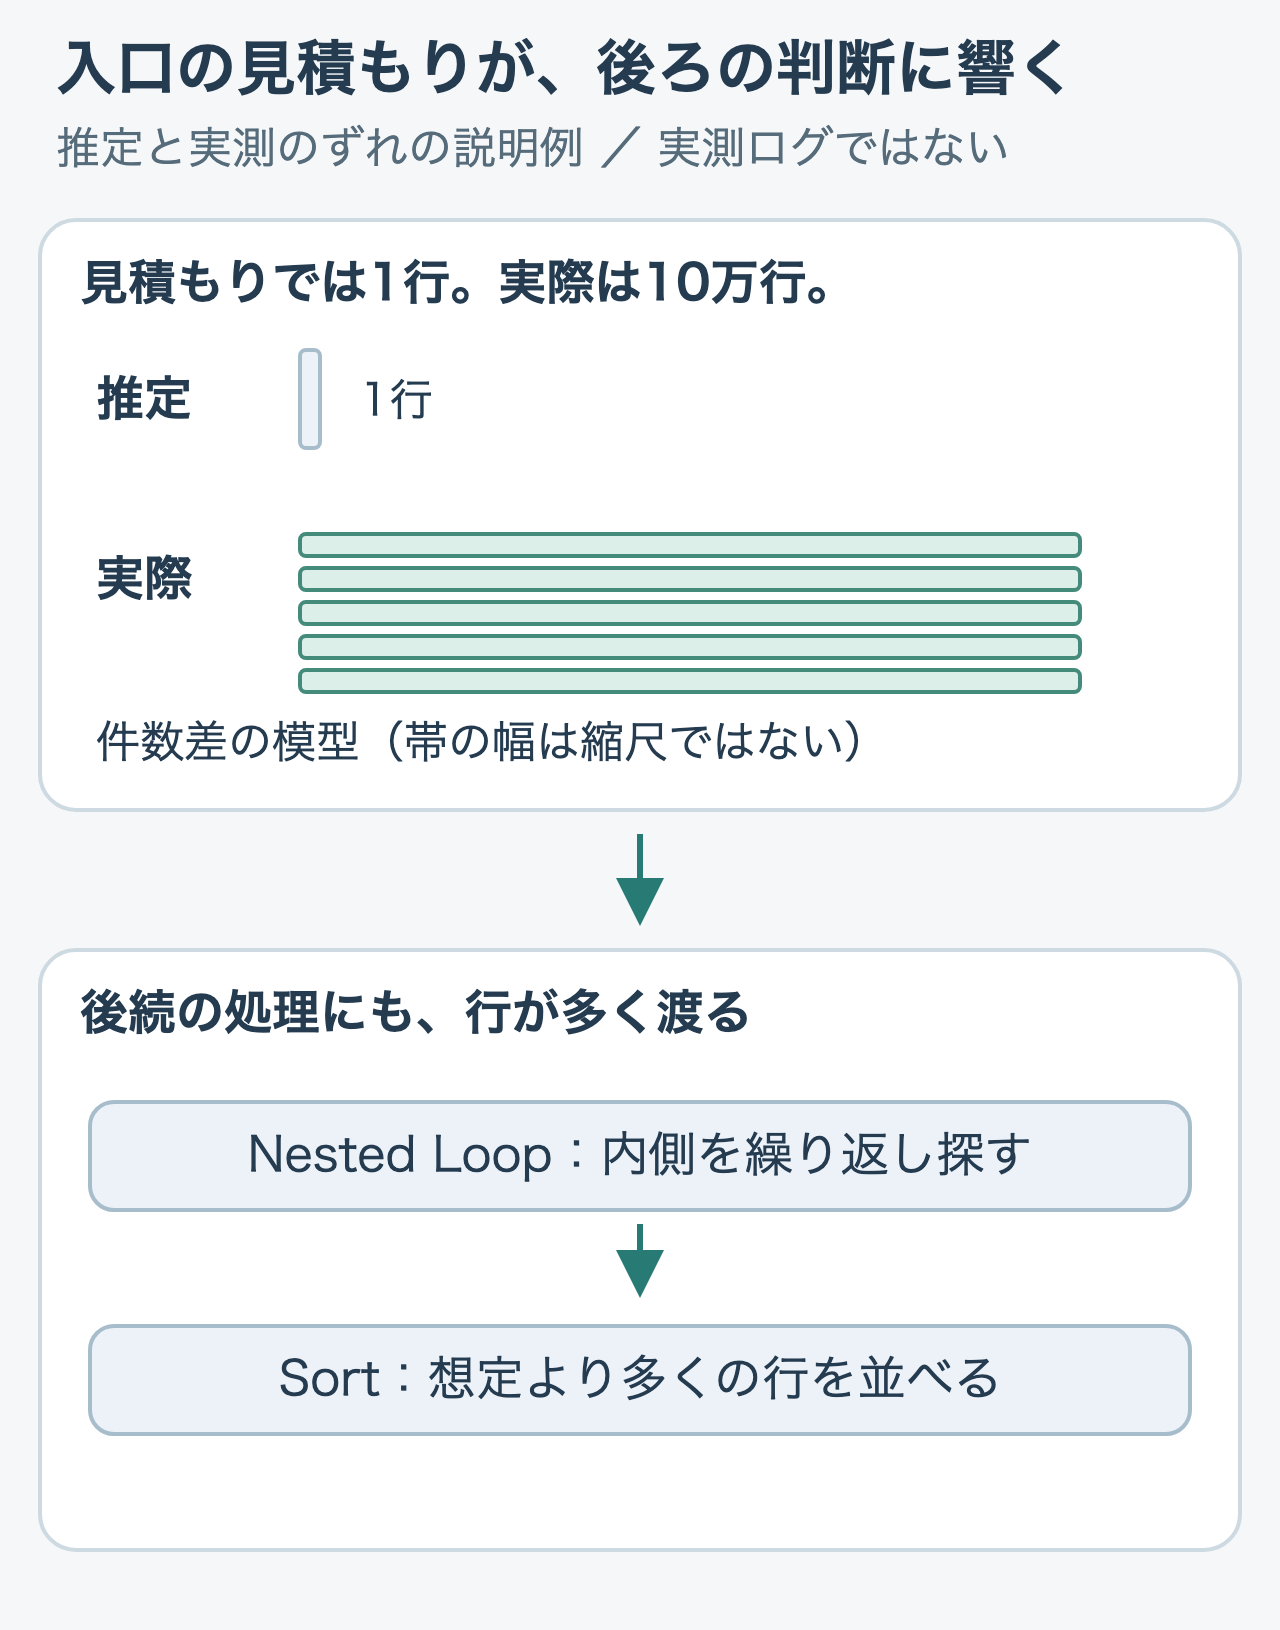
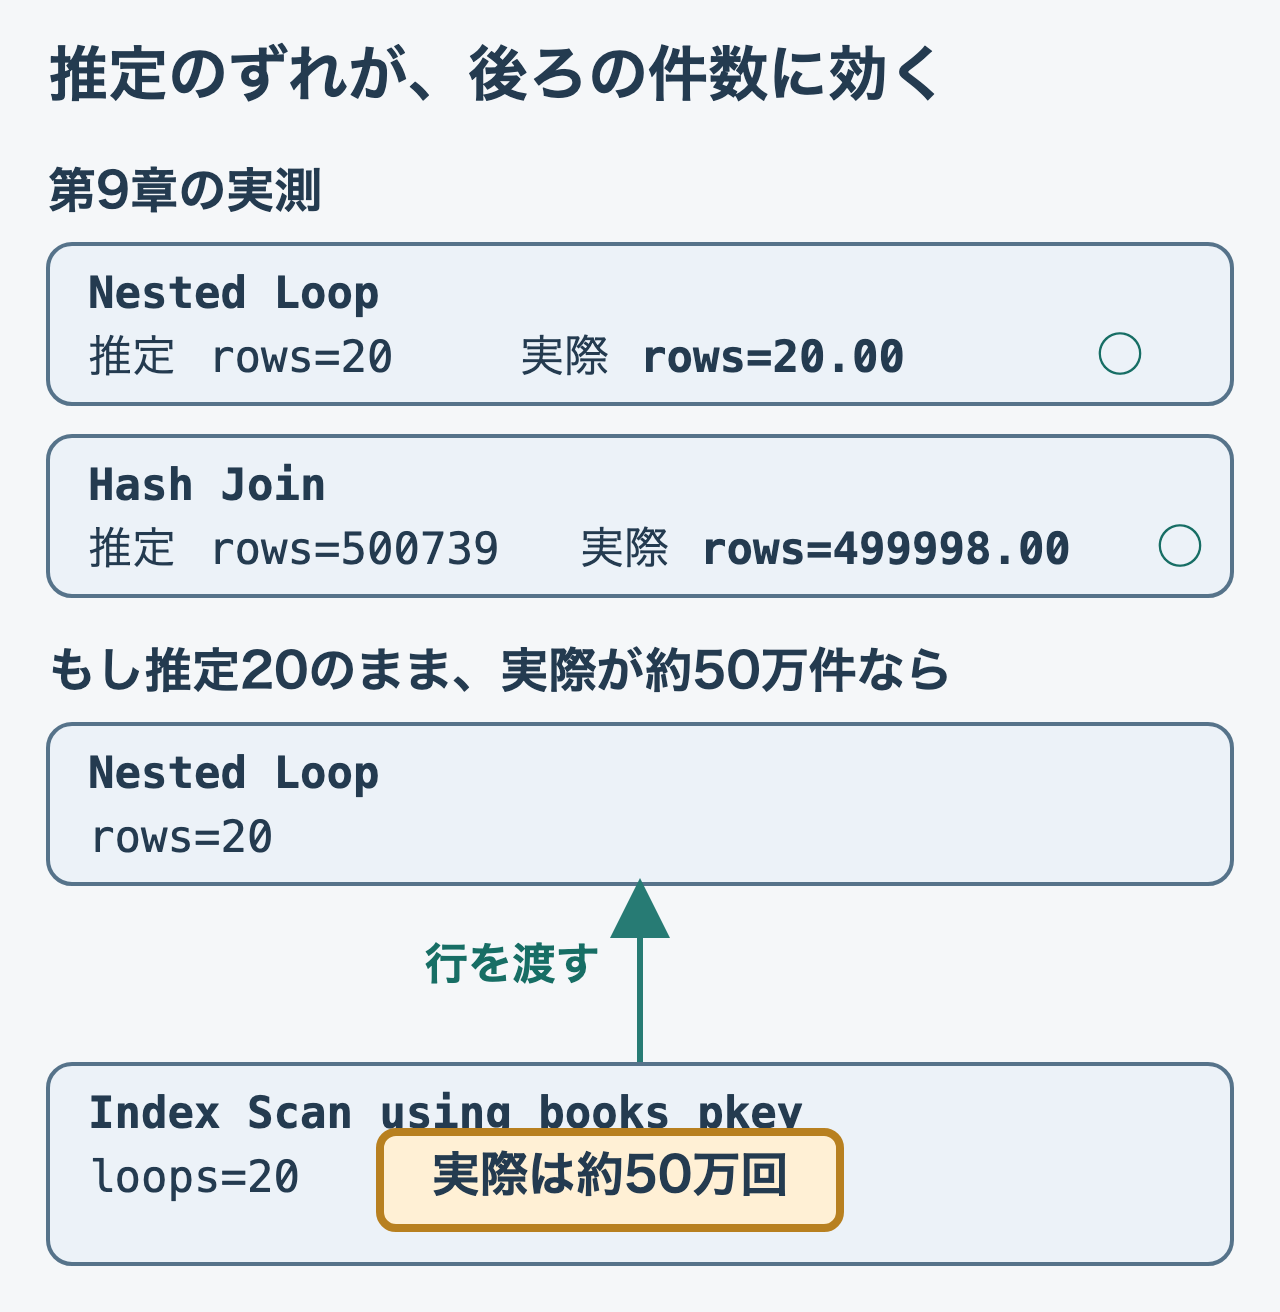
docs(query-journey): 第10章の推定伝播の図を、実測比較と模型の木に描き直す
上段に第9章のNested LoopとHash Joinの推定・実際・一致を並べ、下段は
推定20のままなら内側の実行が約50万回に増える例を、子が下・親が上・
行は下から上への木で描いた。旧版のSort行を外し、模型は札ではなく
上段・下段の見出しで実測と描き分けた。見出しの変更に合わせてREADME
の一覧とcatalog.json、代替テキスト・キャプションも合わせて直した。

Changed region(s): [[0.0312, 0.0, 0.9062, 0.5625], [0.0312, 0.5625, 0.9688, 0.9688], [0.9062, 0.1875, 0.9688, 0.5]]

diff --git a/books/postgresql-query-journey/10-planner-and-statistics.md b/books/postgresql-query-journey/10-planner-and-statistics.md
@@ -96,8 +96,8 @@ ROLLBACK;
 
 第9章の計画に当てはめてみます。Nested Loopの計画では、外側が`rows=20`と見積もられ、実際にも20件でした。もし推定が20件のままで、実際には約50万件が届いたとしたら、内側で本を1冊ずつ探す操作も約50万回に増えます。1週間分の結合では、外側の推定が`rows=500739`で、実際の499,998件に近い値でした。
 
-![入口の見積もりが、後ろの判断に響く](/images/postgresql-query-journey/10-estimate-propagation.png)
-*推定と実測のずれの説明例で、実測ログではありません。*
+![上段は第9章のNested LoopとHash Joinで推定と実際がほぼ一致し、下段は推定20のまま実際が約50万件なら内側の実行回数が20から約50万に増える](/images/postgresql-query-journey/10-estimate-propagation.png)
+*上の実測は推定と実際が近く、下の模型は推定20のまま実際が約50万件になると内側の実行回数が増えます。*
 
 すべての遅いSQLがこの形とは限りません。推定が近くても、そもそもの処理量が多い場合もあります。
 
